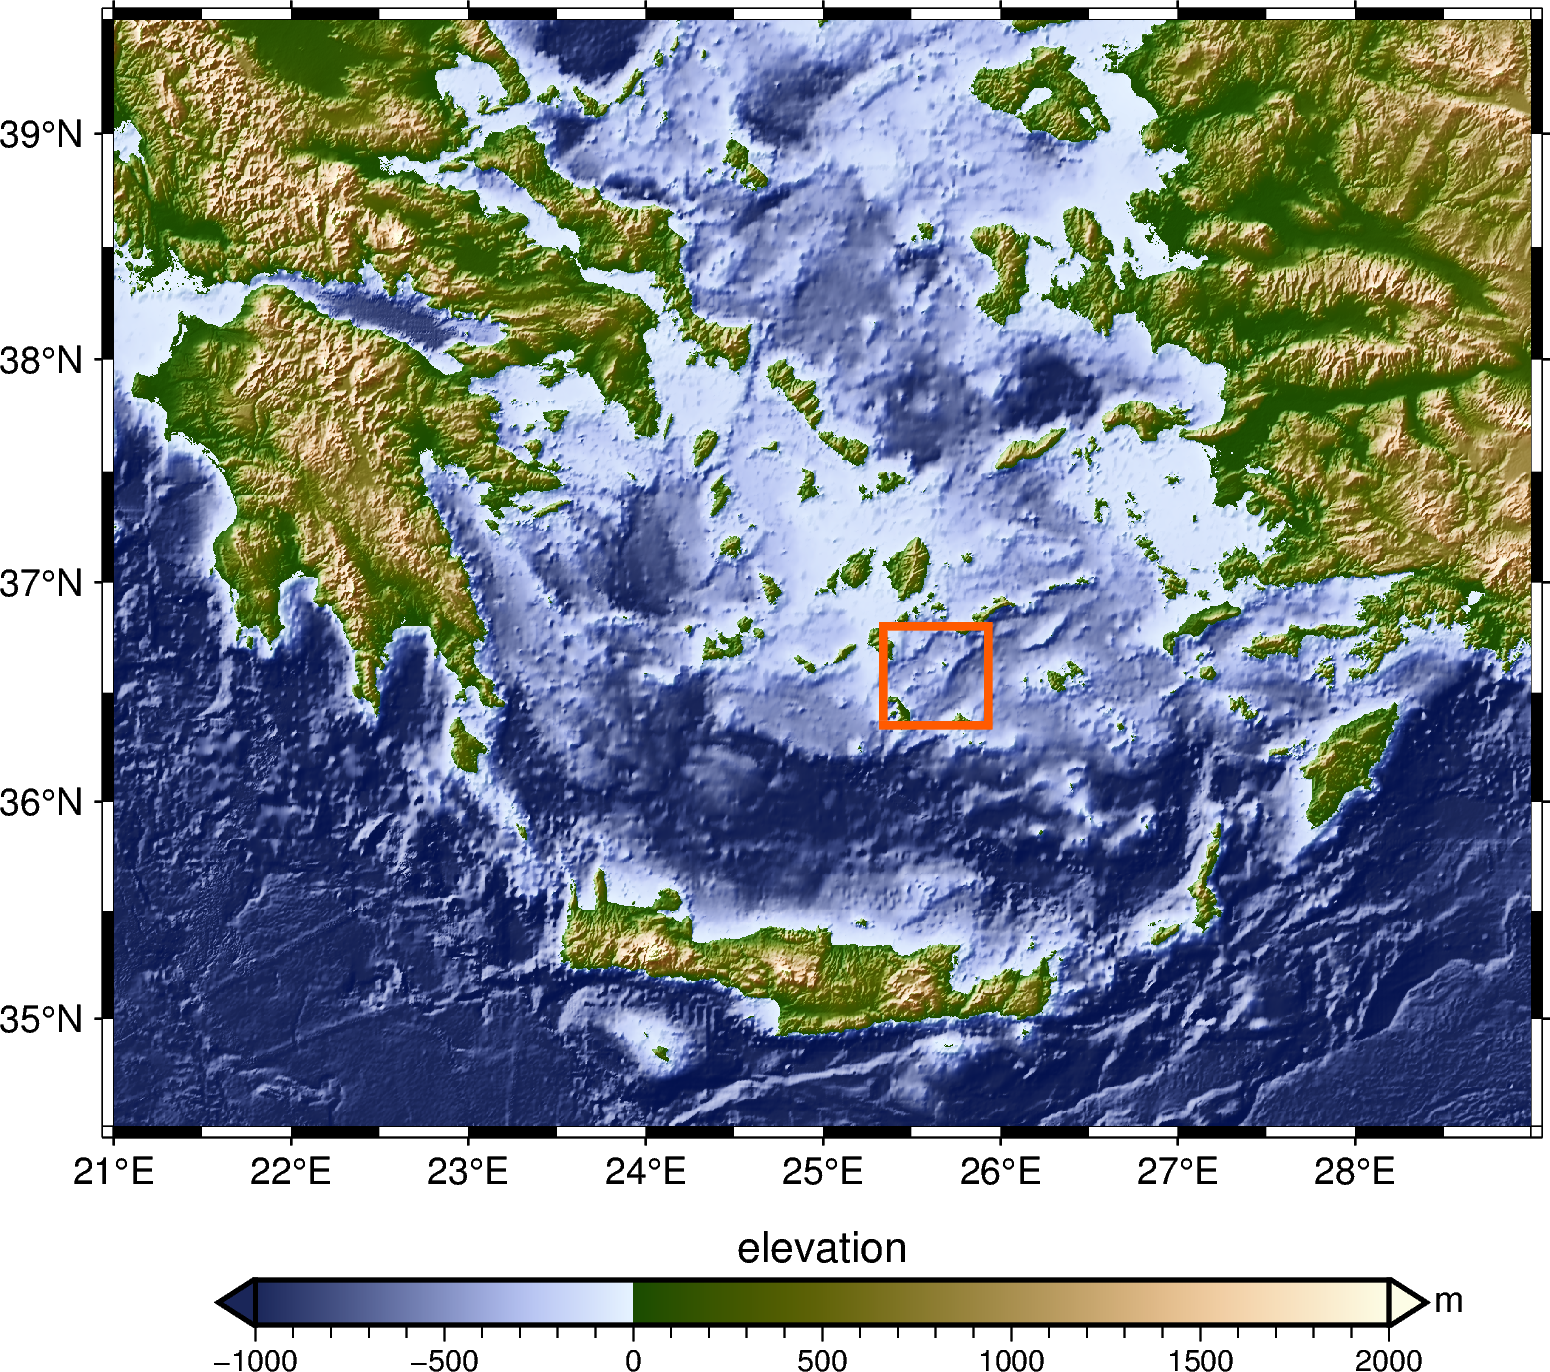
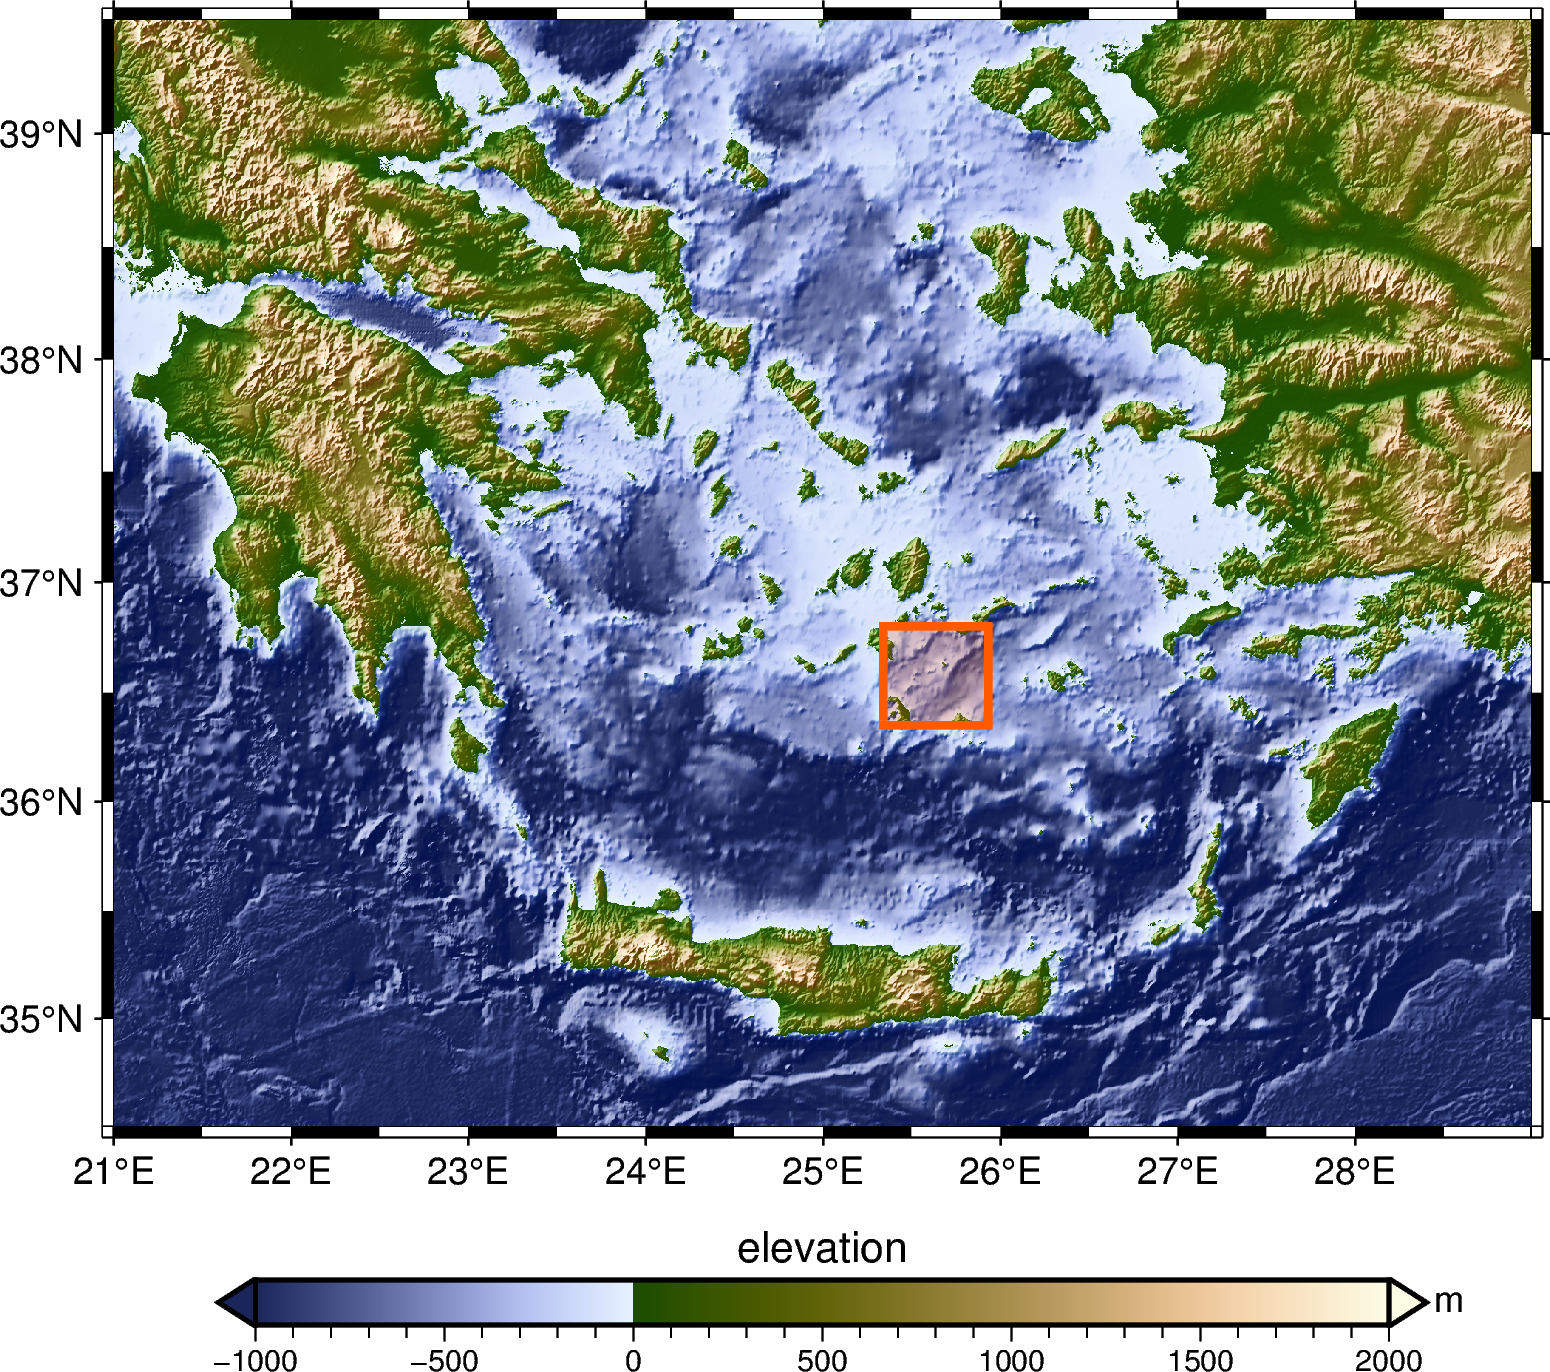
Add to event table in folder 04

Changed region(s): [[0.5574, 0.4592, 0.6503, 0.551]]

diff --git a/004_earthquakes_eruptions/00_overview_events_BFO.py b/004_earthquakes_eruptions/00_overview_events_BFO.py
@@ -56,6 +56,7 @@ df_events = pd.DataFrame(
             "earthquake",
             "earthquake",
             "earthquake",
+            "earthquake",
         ],
         "location": [
             "La Palma",
@@ -68,6 +69,7 @@ df_events = pd.DataFrame(
             "Myanmar",
             "Kamtschatka",
             "Afghanistan",
+            "Santorini",
         ],
         "date": [
             "2021/09/19-2021/12/13",
@@ -80,14 +82,17 @@ df_events = pd.DataFrame(
             "2025/03/28",
             "2025/07/30",
             "2025/08/31",
+            "2025/01/27-2025/03/03",
         ],
         "lon": [
-            -17.84, -175.393, -79.611, 37.042, -8.391, 136.91, 121.562, 95.92, 160.324, 70.734
+            -17.84, -175.393, -79.611, 37.042, -8.391, 136.91, 121.562, 95.92,
+            160.324, 70.734, 25.43,
         ],
         "lat": [
-            28.57, -20.545, -0.904, 37.166, 31.064, 37.23, 23.819, 22.01, 52.512, 34.519
+            28.57, -20.545, -0.904, 37.166, 31.064, 37.23, 23.819, 22.01,
+            52.512, 34.519, 36.42,
         ],
-        "event_id": ["01", "02", "03", "04", "05", "06", "07", "08", "09", "10"],
+        "event_id": ["01", "02", "03", "04", "05", "06", "07", "08", "09", "10", "11"],
     }
 )
 

diff --git a/015_santorini_earthquakes/santorini_earthquakes.py b/015_santorini_earthquakes/santorini_earthquakes.py
@@ -115,7 +115,10 @@ fig_ele.colorbar(frame=["xa500f100+lelevation", "y+lm"], position="+e0.3c+o0c/1.
 
 # Mark zoom area using in following maps
 fig_ele.plot(
-    data=[[lon_min, lat_min, lon_max, lat_max]], style="r+s", pen=f"2p,{color_hl}"
+    data=[[lon_min, lat_min, lon_max, lat_max]],
+    style="r+s",
+    pen=f"2p,{color_hl}",
+    fill=f"{color_hl}@80",
 )
 
 fig_ele.show()

diff --git a/004_earthquakes_eruptions/README.md b/004_earthquakes_eruptions/README.md
@@ -15,5 +15,6 @@ _Recommended versions_: PyGMT v0.11.0-v0.16.0, GMT 6.4.0-6.5.0
 | **[08_myanmar_earthquake.py](https://github.com/yvonnefroehlich/gmt-pygmt-plotting/blob/main/004_earthquakes_eruptions/08_myanmar_earthquake.py)**           | Myanmar       | 2025/03/28              | 06:20:54     |
 | **[09_kamtschatka_earthquake.py](https://github.com/yvonnefroehlich/gmt-pygmt-plotting/blob/main/004_earthquakes_eruptions/09_kamtschatka_earthquake.py)**   | Kamtschatka   | 2025/07/29-30           | 23:24:52     |
 | **[10_afghanistan_earthquake.py](https://github.com/yvonnefroehlich/gmt-pygmt-plotting/blob/main/004_earthquakes_eruptions/10_afghanistan_earthquake.py)**   | Afghanistan   | 2025/08/31              | 19:17:34     |
+| **[11_santorini_earthquakes](https://github.com/yvonnefroehlich/gmt-pygmt-plotting/blob/main/015_santorini_earthquakes#015_santorini_earthquakes)**          | Santorini     | 2025/01/26 - 2025/03/03 | - |
 
 ![](https://github.com/yvonnefroehlich/gmt-pygmt-plotting/raw/main/_images/github_maps_readme_004events.png)
